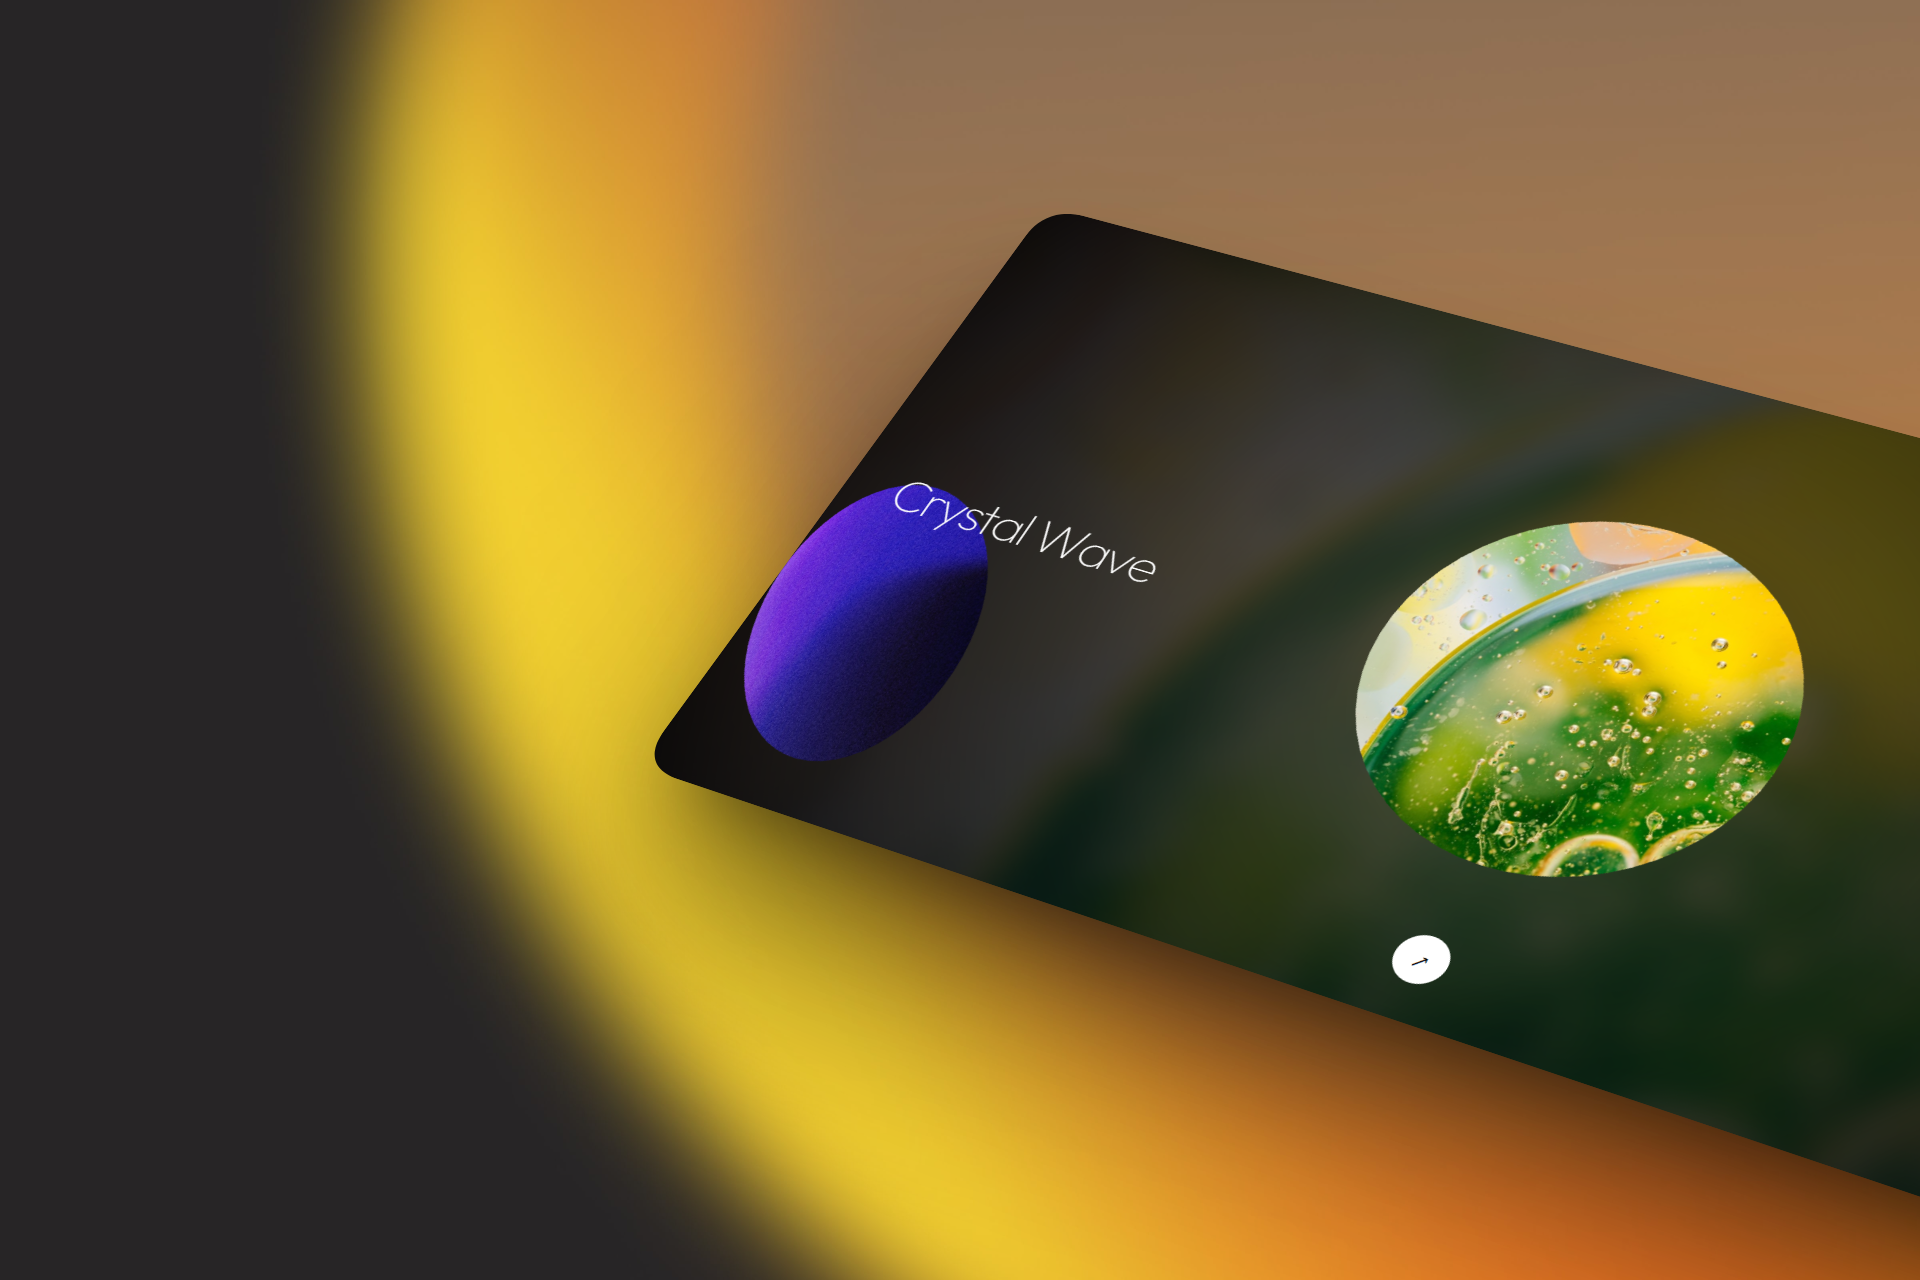
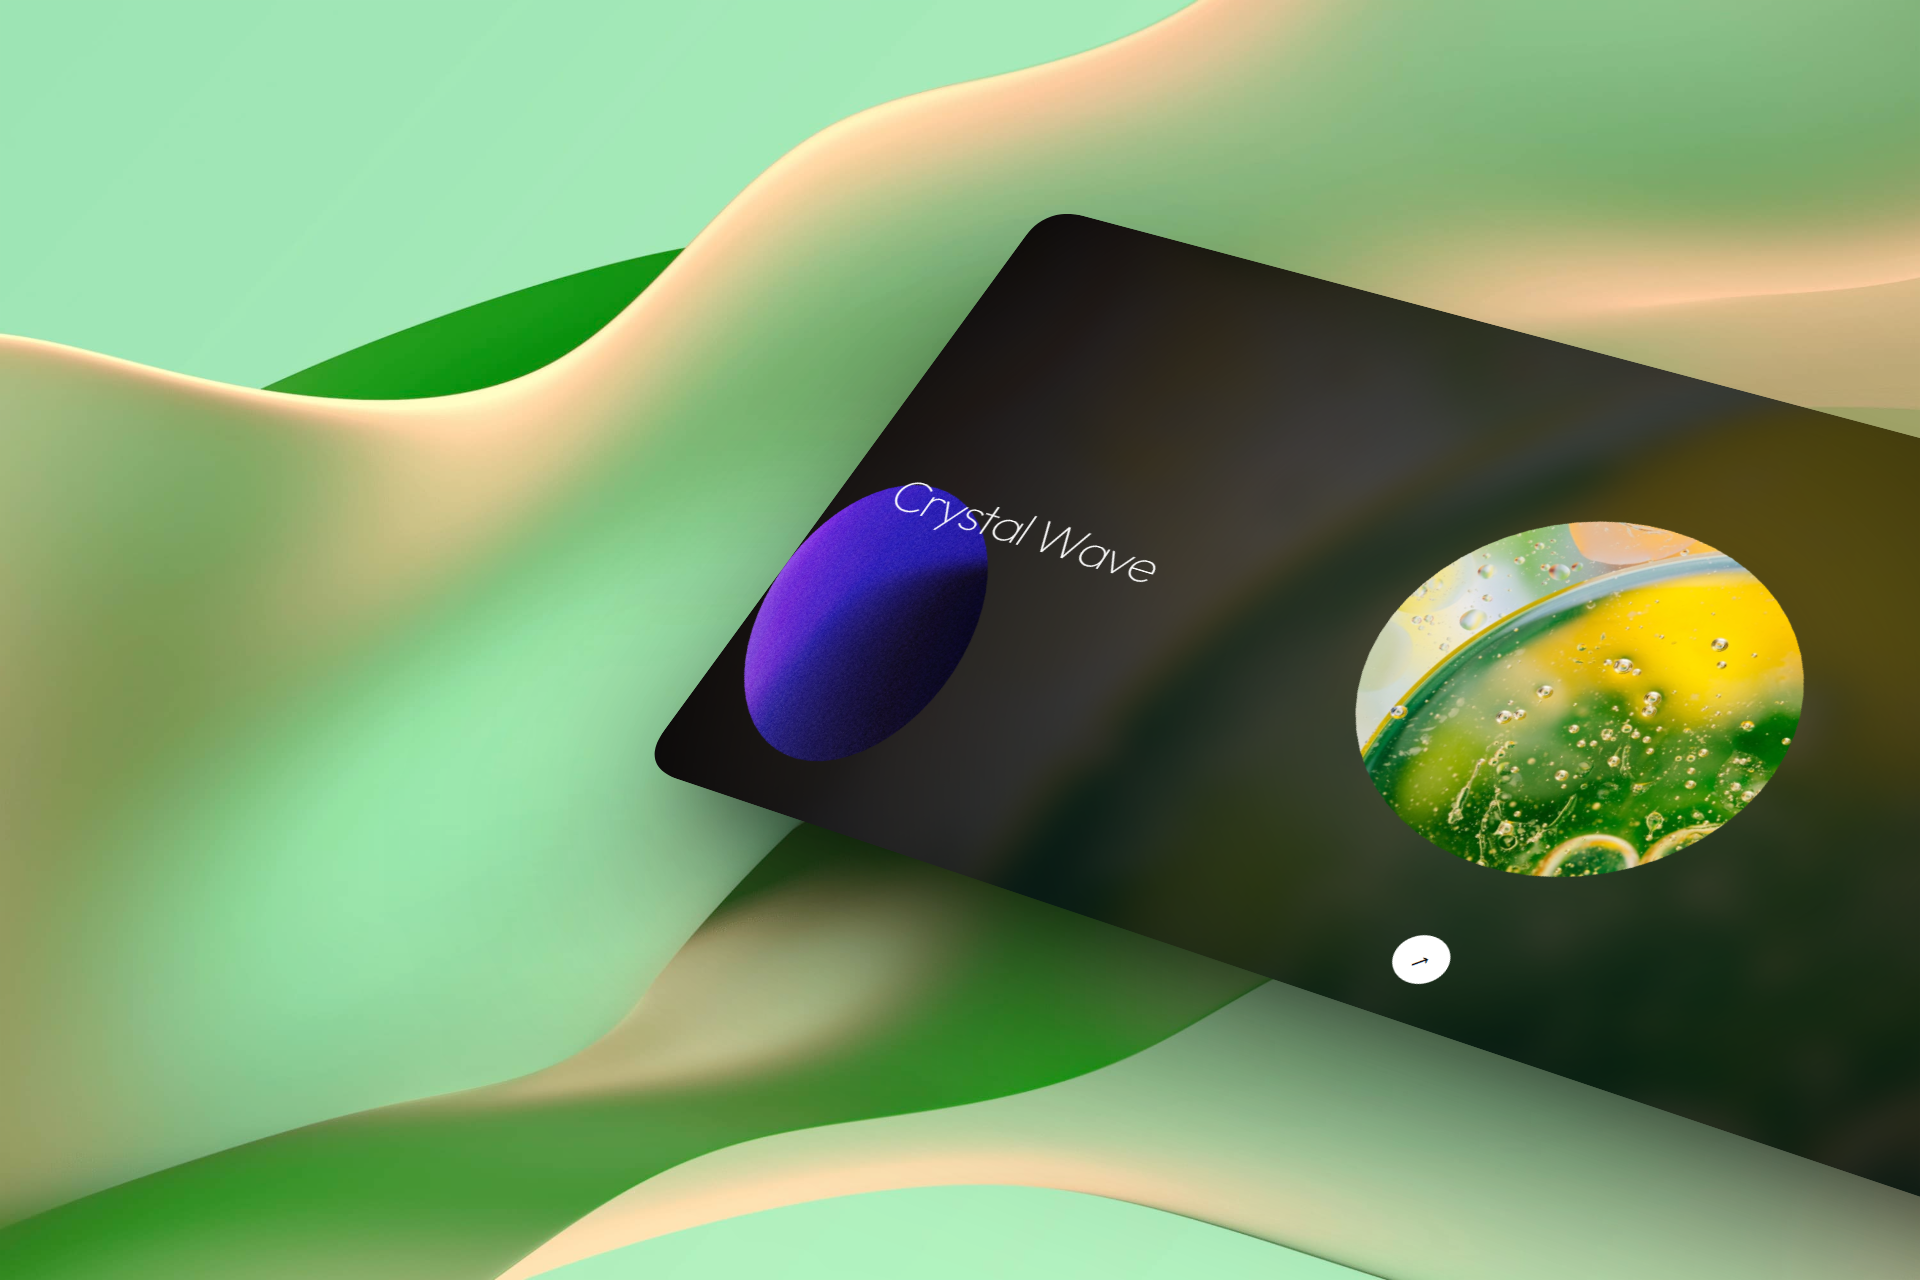
fix: correct uiux preview image extension to webp

diff --git a/src/components/Projects.jsx b/src/components/Projects.jsx
@@ -68,7 +68,7 @@ const uiuxComponents = [
   {
     githubHref: 'https://github.com/sebastianvasquezechavarria1234',
     liveHref: 'https://example.com/botones',
-    img: '/img/uiux-preview.png',
+    img: '/img/uiux-preview.webp',
     num: '#009',
     title: 'Botones Animados',
     desc: 'Sistema de botones con micro-interacciones y estados...',
@@ -76,7 +76,7 @@ const uiuxComponents = [
   {
     githubHref: 'https://github.com/sebastianvasquezechavarria1234',
     liveHref: 'https://example.com/tarjetas',
-    img: '/img/uiux-preview.png',
+    img: '/img/uiux-preview.webp',
     num: '#010',
     title: 'Tarjetas de Producto',
     desc: 'Componentes de tarjeta con hover effects y transiciones...',
@@ -84,7 +84,7 @@ const uiuxComponents = [
   {
     githubHref: 'https://github.com/sebastianvasquezechavarria1234',
     liveHref: 'https://example.com/formularios',
-    img: '/img/uiux-preview.png',
+    img: '/img/uiux-preview.webp',
     num: '#011',
     title: 'Formularios UX',
     desc: 'Formularios con validación en tiempo real y feedback visual...',
@@ -92,7 +92,7 @@ const uiuxComponents = [
   {
     githubHref: 'https://github.com/sebastianvasquezechavarria1234',
     liveHref: 'https://example.com/navegacion',
-    img: '/img/uiux-preview.png',
+    img: '/img/uiux-preview.webp',
     num: '#012',
     title: 'Navegación Responsive',
     desc: 'Menús adaptativos con animaciones fluidas y accesibilidad...',
